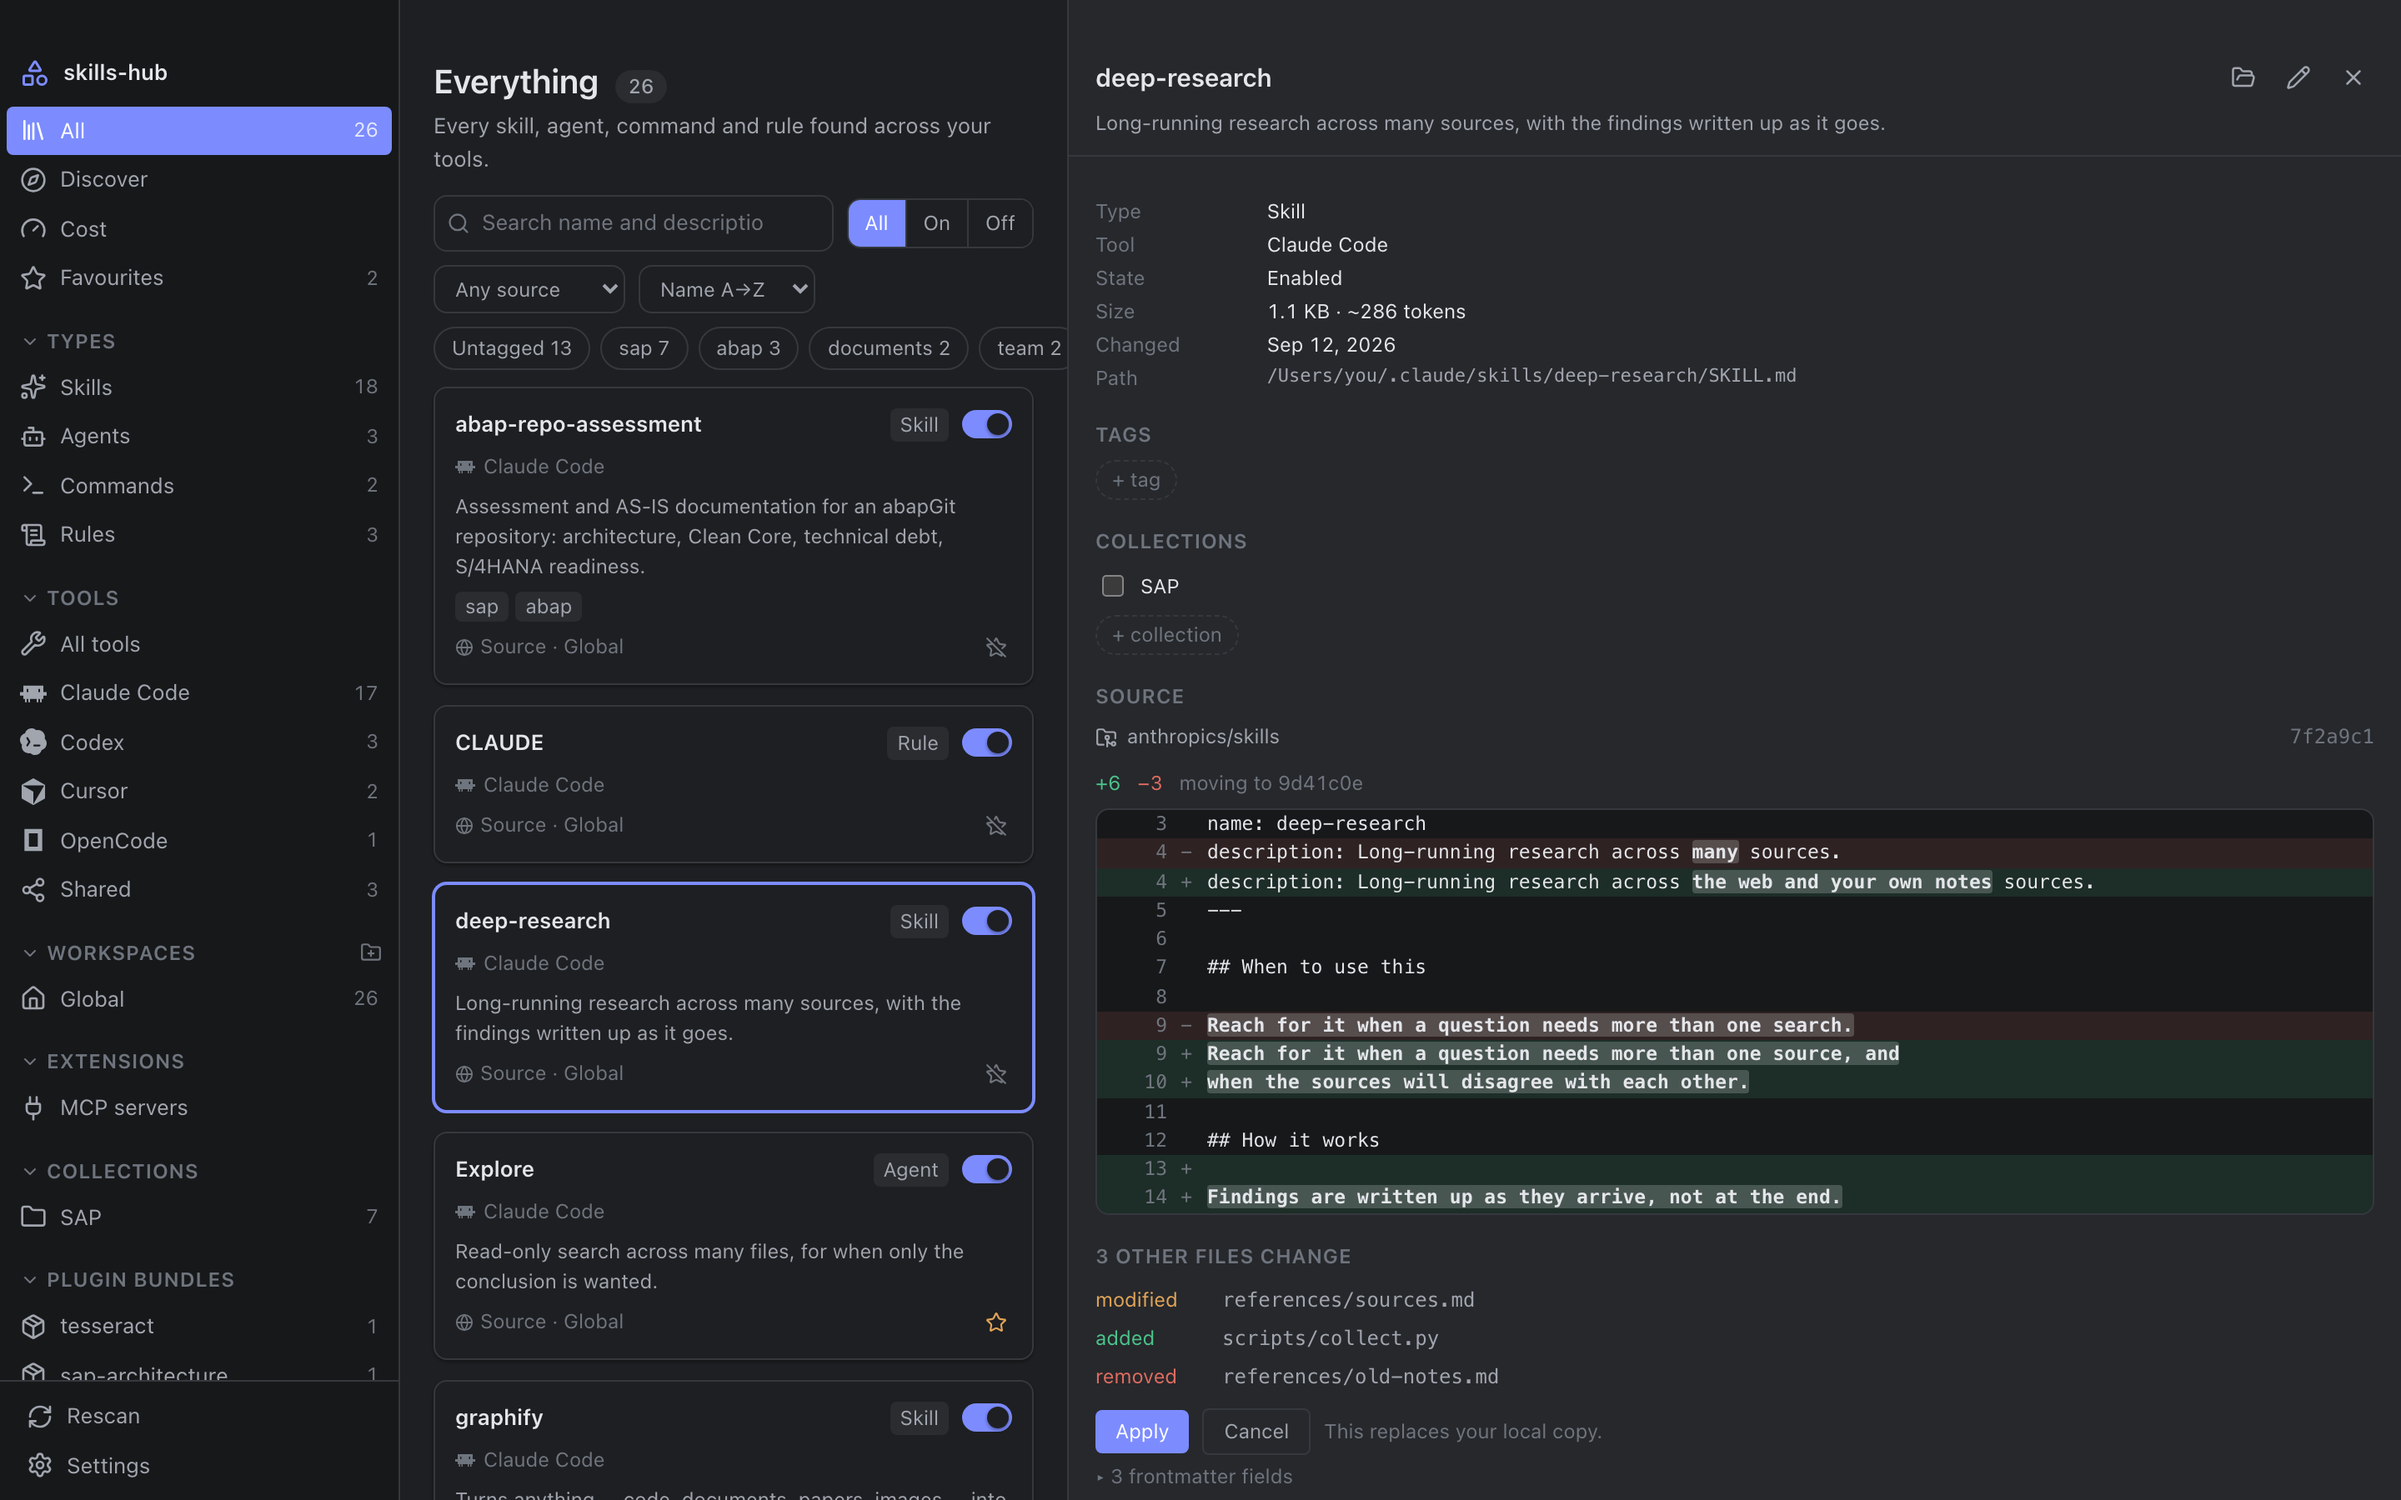
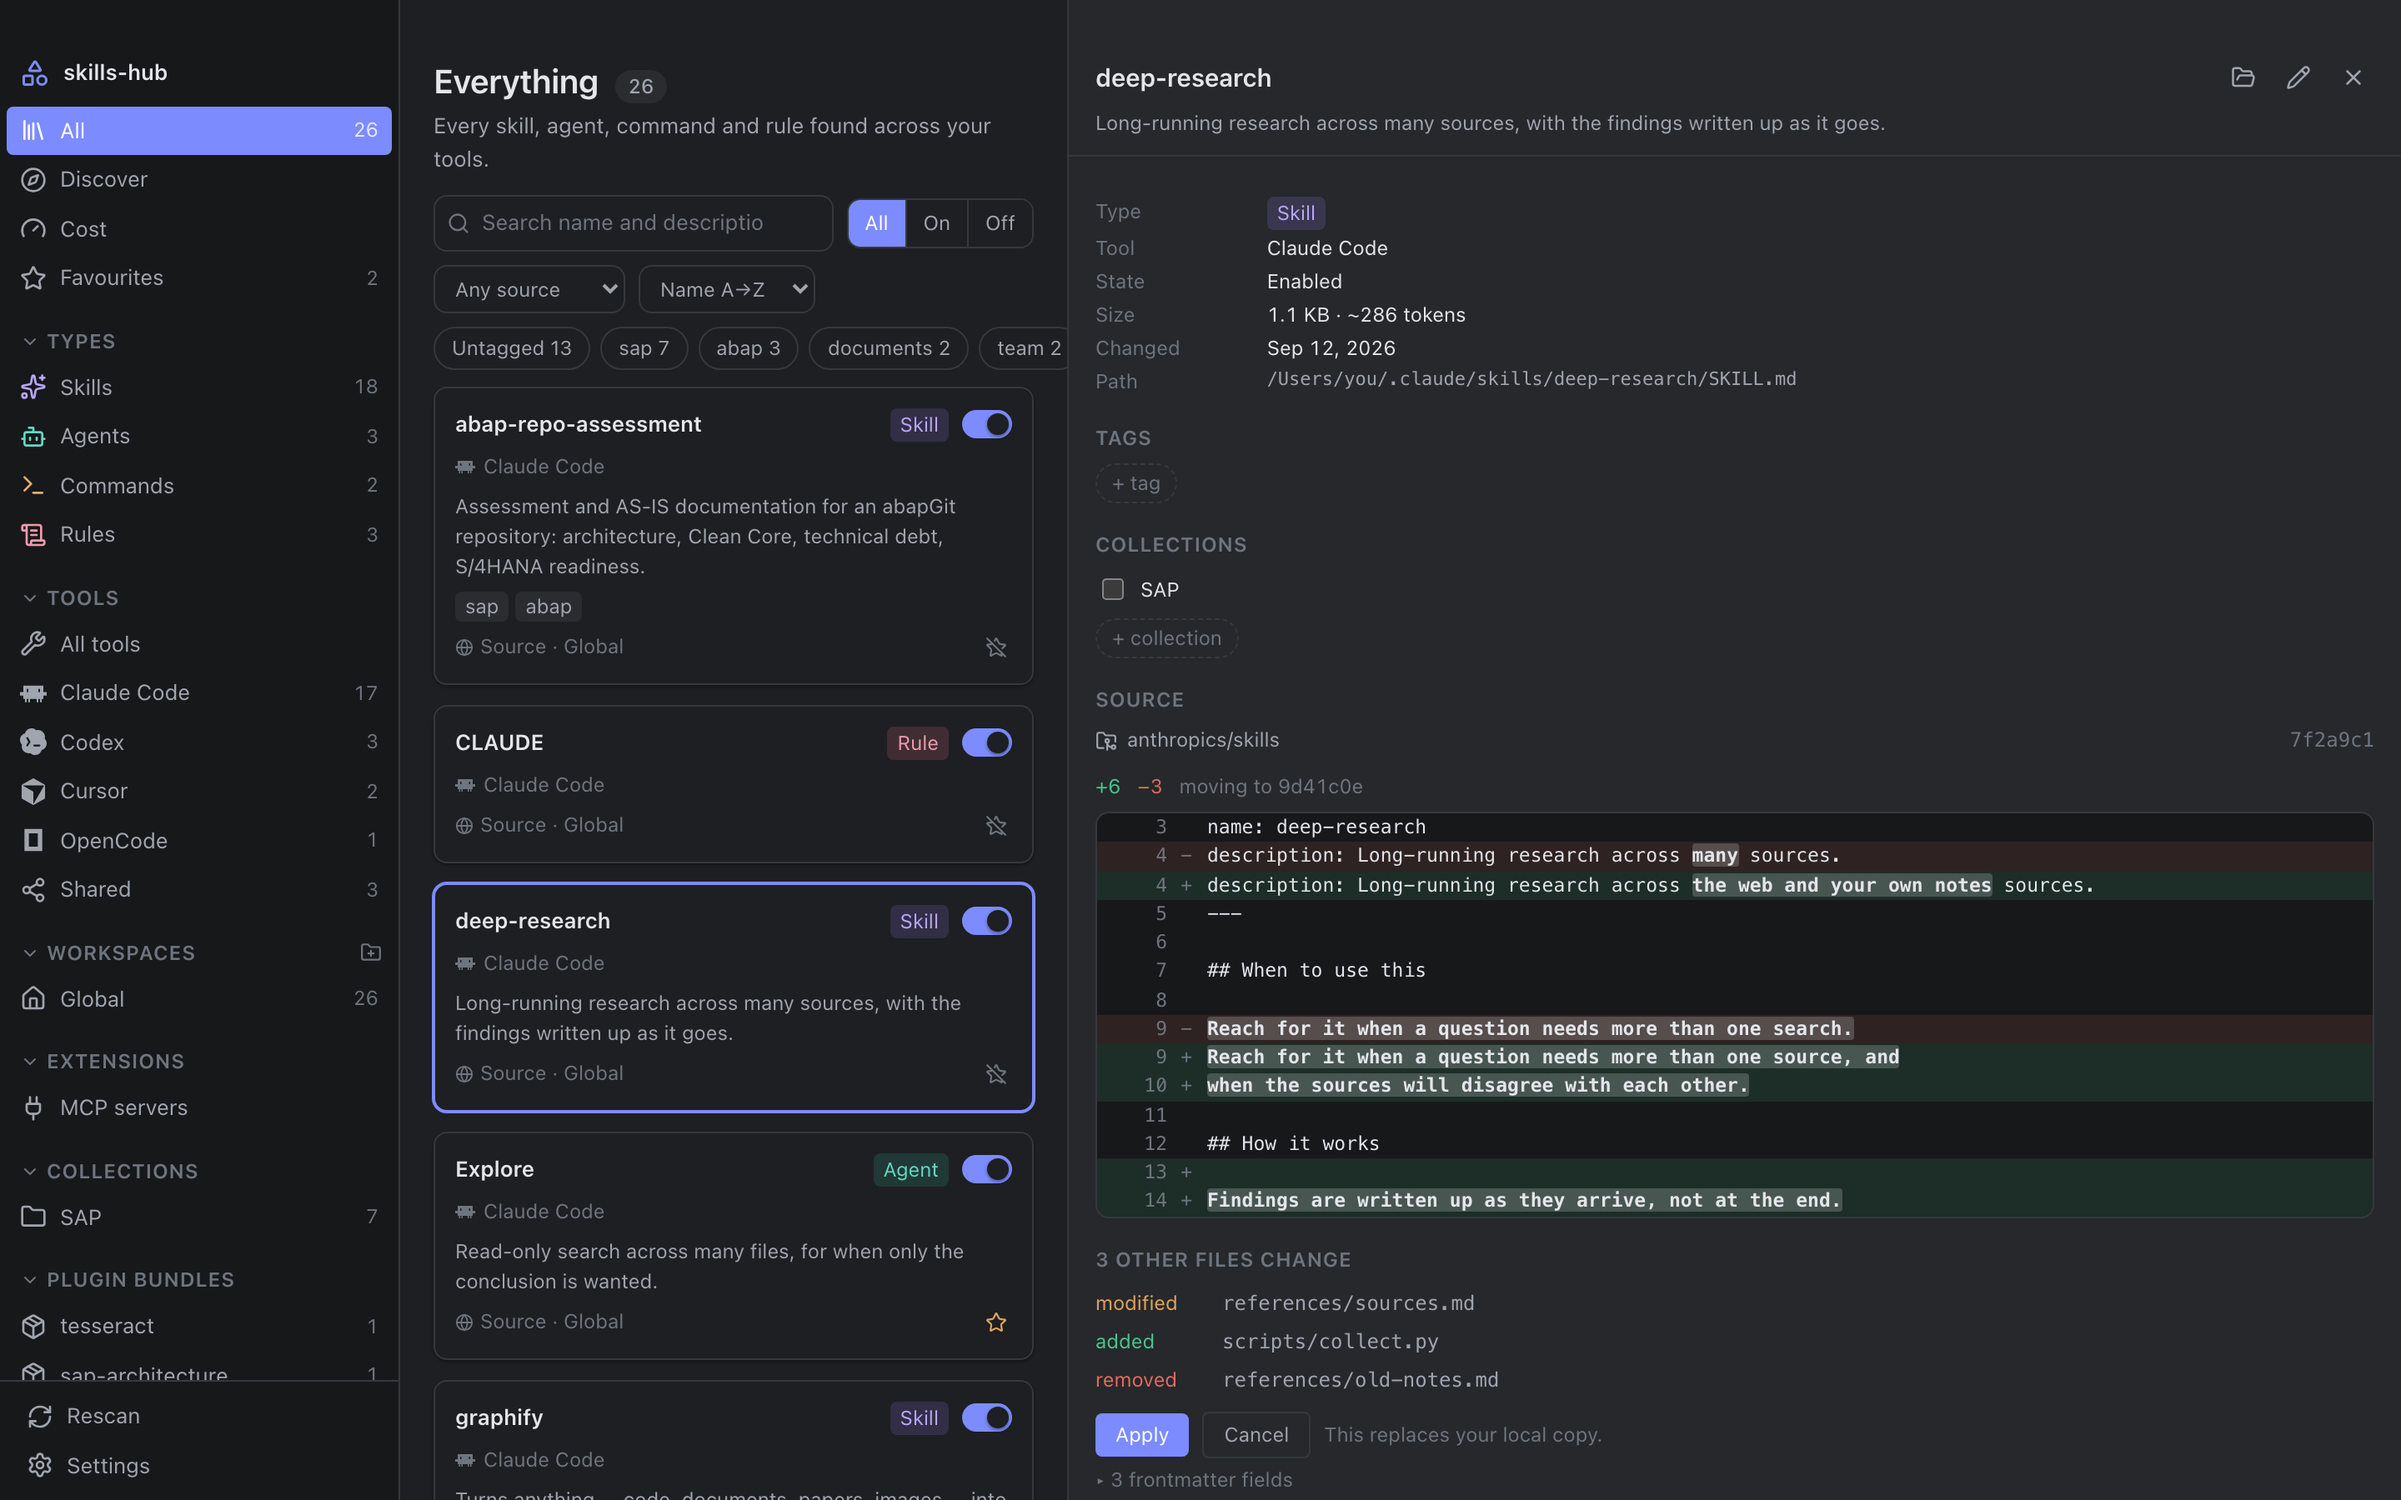
feat(ui): give each item type its own muted colour (#12)
The four item types were told apart only by the word in the chip. Each
now carries a hue of its own, as design tokens with a light and a dark
value.

| Type | Hue |
| --- | --- |
| Skill | violet |
| Agent | teal |
| Command | amber |
| Rule | rose |

## All four together

The curated `library` screenshot is scoped to skills, so none of the
existing pictures showed the hues next to each other. This pair does.

![Light](https://raw.githubusercontent.com/nimble-123/skills-hub/feat/type-chip-colours/docs/images/types.png)

![Dark](https://raw.githubusercontent.com/nimble-123/skills-hub/feat/type-chip-colours/docs/images/types-dark.png)

## Where it shows up

Cards, discover results, the install dialog, and — newly a chip rather
than plain text — the detail rail:

![Library](https://raw.githubusercontent.com/nimble-123/skills-hub/feat/type-chip-colours/docs/images/library.png)

In the sidebar only the **icon** takes the hue. An active row is painted
solid accent, and a tinted background would fight it, so `.rowActive
.rowIcon[data-type]` falls back to `inherit`:

![Discover](https://raw.githubusercontent.com/nimble-123/skills-hub/feat/type-chip-colours/docs/images/discover.png)

## Decisions worth a look

- **Tinted backgrounds, not solid.** At full saturation the chips read
as *selected* next to the indigo accent. Contrast stays between 5.0:1
and 7.1:1 for the 12px label in both themes — measured, not estimated.
[…]

diff --git a/src/components/sidebar/NavRow.tsx b/src/components/sidebar/NavRow.tsx
@@ -1,10 +1,13 @@
 import type { ReactNode } from "react";
+import type { ItemType } from "../../bindings";
 import { Icon } from "../common/Icon";
 import styles from "./Sidebar.module.css";
 
 type NavRowProps = {
   icon: ReactNode;
   label: string;
+  /** The item type this row stands for, which tints its icon. */
+  type?: ItemType | undefined;
   count?: number | undefined;
   active?: boolean;
   /** Draws an attention dot, for things the user should look at. */
@@ -18,6 +21,7 @@ type NavRowProps = {
 export function NavRow({
   icon,
   label,
+  type,
   count,
   active = false,
   attention = false,
@@ -34,7 +38,9 @@ export function NavRow({
         title={title ?? label}
         aria-current={active ? "page" : undefined}
       >
-        <span className={styles.rowIcon}>{icon}</span>
+        <span className={styles.rowIcon} data-type={type}>
+          {icon}
+        </span>
         <span className={styles.rowLabel}>{label}</span>
         {attention && <span className={styles.dot} role="img" aria-label="needs attention" />}
         {count !== undefined && <span className={styles.count}>{count}</span>}

diff --git a/src/styles/tokens.css b/src/styles/tokens.css
@@ -25,6 +25,16 @@
   --interactive-accent: #5b6ef5;
   --interactive-accent-hover: #4a5de4;
 
+  /* One muted hue per item type, so the four type chips read apart at a glance. */
+  --type-skill-bg: #ece9fd;
+  --type-skill-text: #5546b8;
+  --type-agent-bg: #e0f0ee;
+  --type-agent-text: #146054;
+  --type-command-bg: #f8eeda;
+  --type-command-text: #8a5c0a;
+  --type-rule-bg: #fbe7ec;
+  --type-rule-text: #a23048;
+
   --radius-s: 4px;
   --radius-m: 8px;
   --radius-l: 12px;
@@ -60,6 +70,15 @@
 
   --interactive-accent: #7c8cff;
   --interactive-accent-hover: #8e9cff;
+
+  --type-skill-bg: rgba(157, 124, 255, 0.16);
+  --type-skill-text: #b9a6ff;
+  --type-agent-bg: rgba(45, 190, 170, 0.16);
+  --type-agent-text: #64d6c2;
+  --type-command-bg: rgba(224, 164, 88, 0.16);
+  --type-command-text: #e0b070;
+  --type-rule-bg: rgba(240, 120, 145, 0.16);
+  --type-rule-text: #f09aad;
 
   --shadow-s: 0 1px 2px rgba(0, 0, 0, 0.4);
   --shadow-m: 0 4px 16px rgba(0, 0, 0, 0.5);

diff --git a/src/demo/main.tsx b/src/demo/main.tsx
@@ -16,7 +16,7 @@ import { useUi } from "../stores/ui";
 import "../styles/tokens.css";
 import "../styles/base.css";
 
-type Screen = "library" | "discover" | "cost" | "tools" | "mcp" | "diff";
+type Screen = "library" | "types" | "discover" | "cost" | "tools" | "mcp" | "diff";
 
 const params = new URLSearchParams(window.location.search);
 const screen = (params.get("screen") ?? "library") as Screen;
@@ -32,6 +32,11 @@ function seed(): void {
       // The rail is open on a skill with a code block, so the screenshot
       // shows the markdown and the highlighting doing their job.
       ui.select("sap-abap-cds-000000");
+      break;
+    case "types":
+      // Everything, unscoped and unsearched, with the rail closed: the one
+      // view where all four type chips sit next to each other.
+      ui.go({ kind: "library" });
       break;
     case "diff":
       ui.go({ kind: "library" });

diff --git a/src/components/rail/Rail.module.css b/src/components/rail/Rail.module.css
@@ -77,6 +77,35 @@
   font-variant-numeric: tabular-nums;
 }
 
+/* Same chip as the card's, so the type reads the same wherever it is shown. */
+.typePill {
+  display: inline-block;
+  padding: 1px 6px;
+  border-radius: var(--radius-s);
+  background: var(--bg-secondary-alt);
+  color: var(--text-muted);
+}
+
+.typePill[data-type="skill"] {
+  background: var(--type-skill-bg);
+  color: var(--type-skill-text);
+}
+
+.typePill[data-type="agent"] {
+  background: var(--type-agent-bg);
+  color: var(--type-agent-text);
+}
+
+.typePill[data-type="command"] {
+  background: var(--type-command-bg);
+  color: var(--type-command-text);
+}
+
+.typePill[data-type="rule"] {
+  background: var(--type-rule-bg);
+  color: var(--type-rule-text);
+}
+
 .pathValue {
   font-family: ui-monospace, SFMono-Regular, "SF Mono", Menlo, monospace;
   font-size: 11px;

diff --git a/src/components/discover/DiscoverPane.tsx b/src/components/discover/DiscoverPane.tsx
@@ -146,7 +146,9 @@ export function DiscoverPane() {
                       <article key={entry.id} className={styles.card}>
                         <div className={styles.cardHead}>
                           <span className={styles.cardName}>{entry.name}</span>
-                          <span className={styles.typePill}>{TYPE_META[entry.type].label}</span>
+                          <span className={styles.typePill} data-type={entry.type}>
+                            {TYPE_META[entry.type].label}
+                          </span>
                         </div>
                         {entry.description && (
                           <p className={styles.description}>{entry.description}</p>

diff --git a/src/components/grid/Card.module.css b/src/components/grid/Card.module.css
@@ -53,6 +53,27 @@
   font-size: var(--font-ui-smaller);
 }
 
+/* Coloured per type; a pill without a type ("installed", a count) stays neutral. */
+.typePill[data-type="skill"] {
+  background: var(--type-skill-bg);
+  color: var(--type-skill-text);
+}
+
+.typePill[data-type="agent"] {
+  background: var(--type-agent-bg);
+  color: var(--type-agent-text);
+}
+
+.typePill[data-type="command"] {
+  background: var(--type-command-bg);
+  color: var(--type-command-text);
+}
+
+.typePill[data-type="rule"] {
+  background: var(--type-rule-bg);
+  color: var(--type-rule-text);
+}
+
 .caption {
   display: flex;
   align-items: center;

diff --git a/src/components/discover/Discover.module.css b/src/components/discover/Discover.module.css
@@ -128,6 +128,27 @@
   font-size: var(--font-ui-smaller);
 }
 
+/* Coloured per type; a pill without a type ("installed", a count) stays neutral. */
+.typePill[data-type="skill"] {
+  background: var(--type-skill-bg);
+  color: var(--type-skill-text);
+}
+
+.typePill[data-type="agent"] {
+  background: var(--type-agent-bg);
+  color: var(--type-agent-text);
+}
+
+.typePill[data-type="command"] {
+  background: var(--type-command-bg);
+  color: var(--type-command-text);
+}
+
+.typePill[data-type="rule"] {
+  background: var(--type-rule-bg);
+  color: var(--type-rule-text);
+}
+
 .description {
   flex: 1;
   margin: 0;

diff --git a/src/components/rail/DetailRail.tsx b/src/components/rail/DetailRail.tsx
@@ -66,7 +66,11 @@ export function DetailRail({ item }: DetailRailProps) {
       <div className={styles.scroll}>
         <dl className={styles.band}>
           <dt className={styles.bandKey}>Type</dt>
-          <dd className={styles.bandValue}>{TYPE_META[item.type].label}</dd>
+          <dd className={styles.bandValue}>
+            <span className={styles.typePill} data-type={item.type}>
+              {TYPE_META[item.type].label}
+            </span>
+          </dd>
 
           <dt className={styles.bandKey}>Tool</dt>
           <dd className={styles.bandValue}>{TOOL_META[item.tool]?.label ?? item.tool}</dd>

diff --git a/src/components/sidebar/Sidebar.module.css b/src/components/sidebar/Sidebar.module.css
@@ -141,6 +141,28 @@
   display: inline-flex;
 }
 
+/* A type row carries its chip's hue on the icon alone — a tinted background
+   here would compete with the accent an active row is painted in. */
+.rowIcon[data-type="skill"] {
+  color: var(--type-skill-text);
+}
+
+.rowIcon[data-type="agent"] {
+  color: var(--type-agent-text);
+}
+
+.rowIcon[data-type="command"] {
+  color: var(--type-command-text);
+}
+
+.rowIcon[data-type="rule"] {
+  color: var(--type-rule-text);
+}
+
+.rowActive .rowIcon[data-type] {
+  color: inherit;
+}
+
 .rowLabel {
   flex: 1;
   overflow: hidden;

diff --git a/src/components/grid/Card.tsx b/src/components/grid/Card.tsx
@@ -66,7 +66,9 @@ export function Card({ item, selected, projectName, onSelect, onTogglePlugin }: 
     >
       <div className={styles.head}>
         <span className={styles.name}>{item.name}</span>
-        <span className={styles.typePill}>{TYPE_META[item.type].label}</span>
+        <span className={styles.typePill} data-type={item.type}>
+          {TYPE_META[item.type].label}
+        </span>
         <button
           type="button"
           className={`${styles.switch} ${item.enabled ? styles.switchOn : ""}`}

diff --git a/src/components/discover/InstallDialog.tsx b/src/components/discover/InstallDialog.tsx
@@ -68,7 +68,7 @@ export function InstallDialog({ entry, onClose }: InstallDialogProps) {
       >
         <div>
           <strong>{entry.name}</strong>
-          <span className={styles.typePill} style={{ marginLeft: 8 }}>
+          <span className={styles.typePill} data-type={entry.type} style={{ marginLeft: 8 }}>
             {TYPE_META[entry.type].label}
           </span>
         </div>

diff --git a/src/components/sidebar/Sidebar.tsx b/src/components/sidebar/Sidebar.tsx
@@ -113,6 +113,7 @@ export function Sidebar({ facets }: SidebarProps) {
               <NavRow
                 key={type}
                 icon={<Icon name={meta.icon} />}
+                type={type as keyof typeof TYPE_META}
                 label={meta.plural}
                 count={count}
                 active={inLibrary && scope.kind === "type" && scope.type === type}
